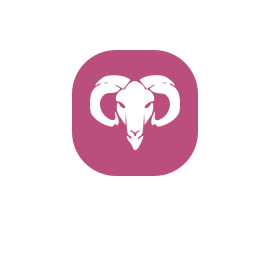
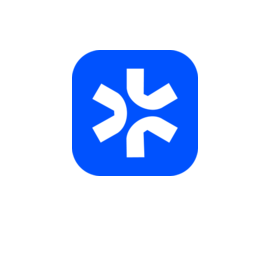
Meta Tags updated

Changed region(s): [[0.2667, 0.1778, 0.7407, 0.6519]]

diff --git a/index.html b/index.html
@@ -2,33 +2,45 @@
 <html lang="en">
   <head>
     <meta charset="UTF-8" />
-    <link rel="apple-touch-icon" sizes="180x180" href="/apple-touch-icon.png" />
-    <link rel="icon" type="image/png" sizes="32x32" href="/favicon-32x32.png" />
-    <link rel="icon" type="image/png" sizes="16x16" href="/favicon-16x16.png" />
-    <link rel="manifest" href="/site.webmanifest" />
-    <link rel="mask-icon" href="/safari-pinned-tab.svg" color="#ba4f7d" />
-    <meta name="msapplication-TileColor" content="#ba4f7d" />
-    <meta name="theme-color" content="#ba4f7d" />
+    <link rel="apple-touch-icon" sizes="180x180" href="/apple-touch-icon.png">
+    <link rel="icon" type="image/png" sizes="32x32" href="/favicon-32x32.png">
+    <link rel="icon" type="image/png" sizes="16x16" href="/favicon-16x16.png">
+    <link rel="manifest" href="/site.webmanifest">
+    <link rel="mask-icon" href="/safari-pinned-tab.svg" color="#0052fe">
+    <meta name="msapplication-TileColor" content="#0052fe">
+    <meta name="theme-color" content="#0052fe">
 
     <meta name="viewport" content="width=device-width, initial-scale=1.0" />
-
-    <meta name="description" content="A production ready fullstack Web3 React Application" key="desc" />
-    <meta property="og:title" content="Lazarus Project" />
+    <title>Vilicos - Community Support Agent for Web3</title>
+    <meta name="description" content="Automated Community Support Agent for Web3" />
+    <meta name="application-name" content="Vilicos" />
+    <link rel="author" href="https://vilicos.com" />
+    <meta name="author" content="Vilicos Inc." />
+    <meta name="keywords" content="Community Support,Automated Web3 Agent,AI Agent,Web3 Agent,AI Web3 Agent" />
+    <meta name="referrer" content="origin-when-cross-origin" />
+    <meta name="creator" content="Vilicos Inc." />
+    <meta name="publisher" content="Vilicos Inc." />
+    <meta name="category" content="artificial intelligence" />
+    <meta property="og:title" content="Vilicos - Community Support Agent for Web3" />
+    <meta property="og:description" content="Automated Community Support Agent for Web3" />
+    <meta property="og:url" content="https://app.vilicos.com" />
+    <meta property="og:image" content="/ogimage.png" />
+    <meta property="og:site_name" content="Vilicos" />
+    <meta property="og:locale" content="en_US" />
+    <meta property="og:image:alt" content="Vilicos" />
+    <meta property="og:image:width" content="1200" />
+    <meta property="og:image:height" content="769" />
+    <meta property="og:image:type" content="image/png" />
     <meta property="og:type" content="website" />
-
-    <meta name="author" content="Nijat Hamid" />
-    <meta property="og:url" content="https://lazarus-project.vercel.app/" />
-    <meta property="og:description" content="A production ready fullstack Web3 React Application" />
-    <meta property="og:image" content="/vite.svg" />
-    <meta property="twitter:title" content="Nijat Hamid" />
-    <meta property="twitter:description" content="A production ready, batteries included starter template" />
-    <meta property="twitter:image" content="/vite.svg" />
-    <meta property="twitter:card" content="summary_large_image" />
-    <meta property="twitter:site" content="@nijathamid" />
-    <meta property="twitter:image:alt" content="React Boilerplate" />
-    <meta name="twitter:creator" content="@nijathamid" />
-
-    <title>Lazarus Project</title>
+    <meta name="twitter:card" content="summary_large_image" />
+    <meta name="twitter:site" content="@vilicos" />
+    <meta name="twitter:site:id" content="1814744523056021504" />
+    <meta name="twitter:creator" content="@vilicos" />
+    <meta name="twitter:creator:id" content="1814744523056021504" />
+    <meta name="twitter:title" content="Vilicos - Community Support Agent for Web3" />
+    <meta name="twitter:description" content="Automated Community Support Agent for Web3" />
+    <meta name="twitter:image" content="/ogimage.png" />
+    <meta name="twitter:image:alt" content="Vilicos" />
   </head>
   <body>
     <div id="root"></div>

diff --git a/src/constants/static-data.ts b/src/constants/static-data.ts
@@ -13,7 +13,7 @@ export const navList = [
         id: 1,
         name: "Discord",
         path: "helpdesk/discord",
-        disabled: false,
+        disabled: true,
       },
       {
         id: 2,
